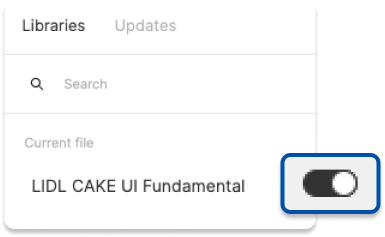
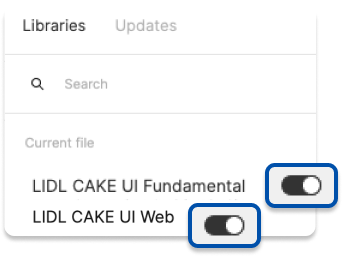
Release version 1.1.0+doc.1

diff --git a/.docs/Getting started/Setup/Setup.md b/.docs/Getting started/Setup/Setup.md
@@ -6,15 +6,17 @@ CAKE UI Fundamental library is a rudimentary symbol library and has to be enable
 
 ## Figma
 
-In order for you to be able to use the Fundamental library in your own Figma design file it has to be enabled first.
+In order for you to be able to use the Fundamental and Web libraries in your own Figma design file they have to be enabled first.
 
 | Steps | Description | Preview |
 |---|---|---|
 | 1 | Open the top left Figma menu inside of a design file and choose "Libraries".  | ![Step 1: Open libraries](assets/figma/setup-step-1.png) |
-| 2 | Enable the library from the Figma “Assets” Panel (Shortcut Option + 3), search for the LIDL CAKE UI Fundamental library and enable it with the toggle switch. | ![Step 2: Enable library](assets/figma/setup-step-2.png)|
+| 2 | Enable the libraries from the Figma “Assets” Panel (Shortcut Option + 3), search for the LIDL CAKE UI Fundamental and LIDL CAKE UI Web libraries and enable them with the toggle switch. | ![Step 2: Enable library](assets/figma/setup-step-2.png)|
 
-### Download Figma library
+### Download Figma libraries
 
-LIDL CAKE UI Fundamental library is available on our github. Download it and publish it inside your Figma account. Enable the library in your working file to use it.
+LIDL CAKE UI Fundamental and LIDL CAKE UI Web libraries are available on our GitHub. Download them and publish them inside your Figma account. Enable the libraries in your working file to use them.
 
-[Figma library - LIDL CAKE UI Fundamental](https://github.com/cake-hub/lidl-figma.git)
+[Figma library - LIDL CAKE UI Fundamental](https://github.com/cake-hub/lidl-figma/raw/master/LIDL%20CAKE%20UI%20Fundamental.fig)
+
+[Figma library - LIDL CAKE UI Web](https://github.com/cake-hub/lidl-web-figma/raw/master/LIDL%20CAKE%20UI%20Web.fig)

diff --git a/.docs/Getting started/Setup/_changelog.md b/.docs/Getting started/Setup/_changelog.md
@@ -1,0 +1,7 @@
+# Change log
+
+## [1.1.0+doc.1 Fundamental](https://github.com/cake-hub/lidl-figma/tree/v1.1.0+doc.1) - 2022-09-05
+
+### Added
+
+* `Doc`: "Setup" | Added description and GitHub link for Figma Web library

diff --git a/README.md b/README.md
@@ -1,4 +1,4 @@
-# CAKE UI Web
+# CAKE UI Fundamental
 
 ## Who we are
 
